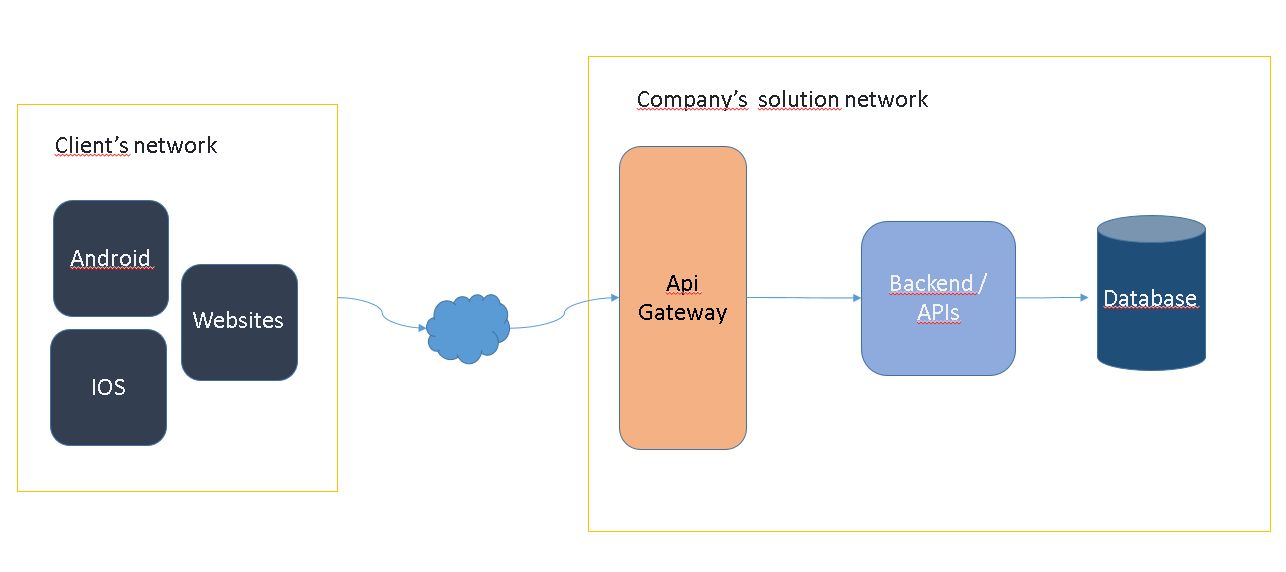
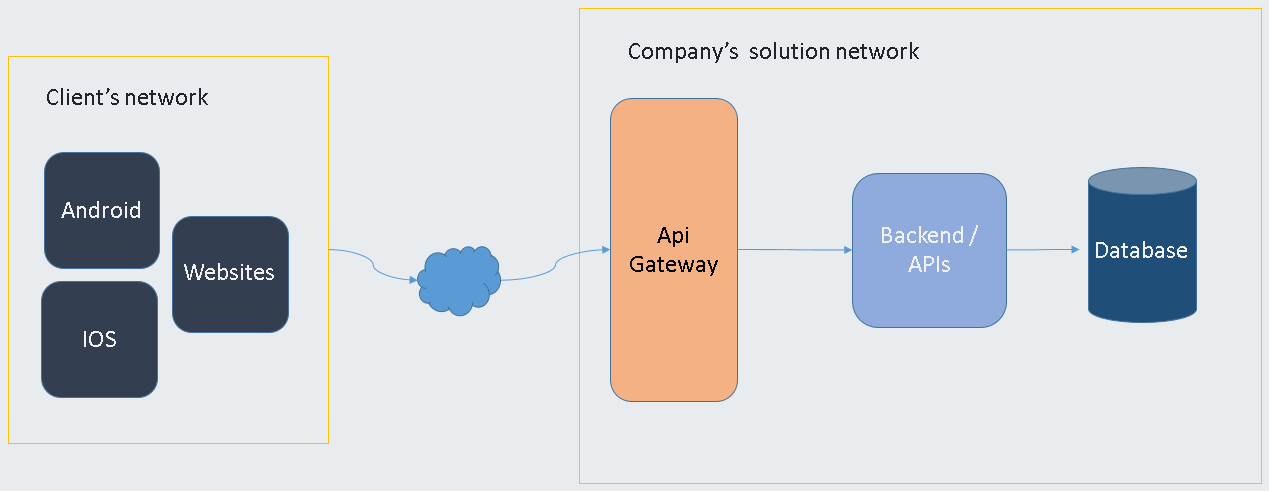
Apigtw images dimension correction

diff --git a/css/main.css b/css/main.css
@@ -207,3 +207,8 @@ color: white;
   color: white;
   text-align: center;
 }
+
+.post-img{
+  max-width: 100%;
+  margin: 15px 0;
+}
